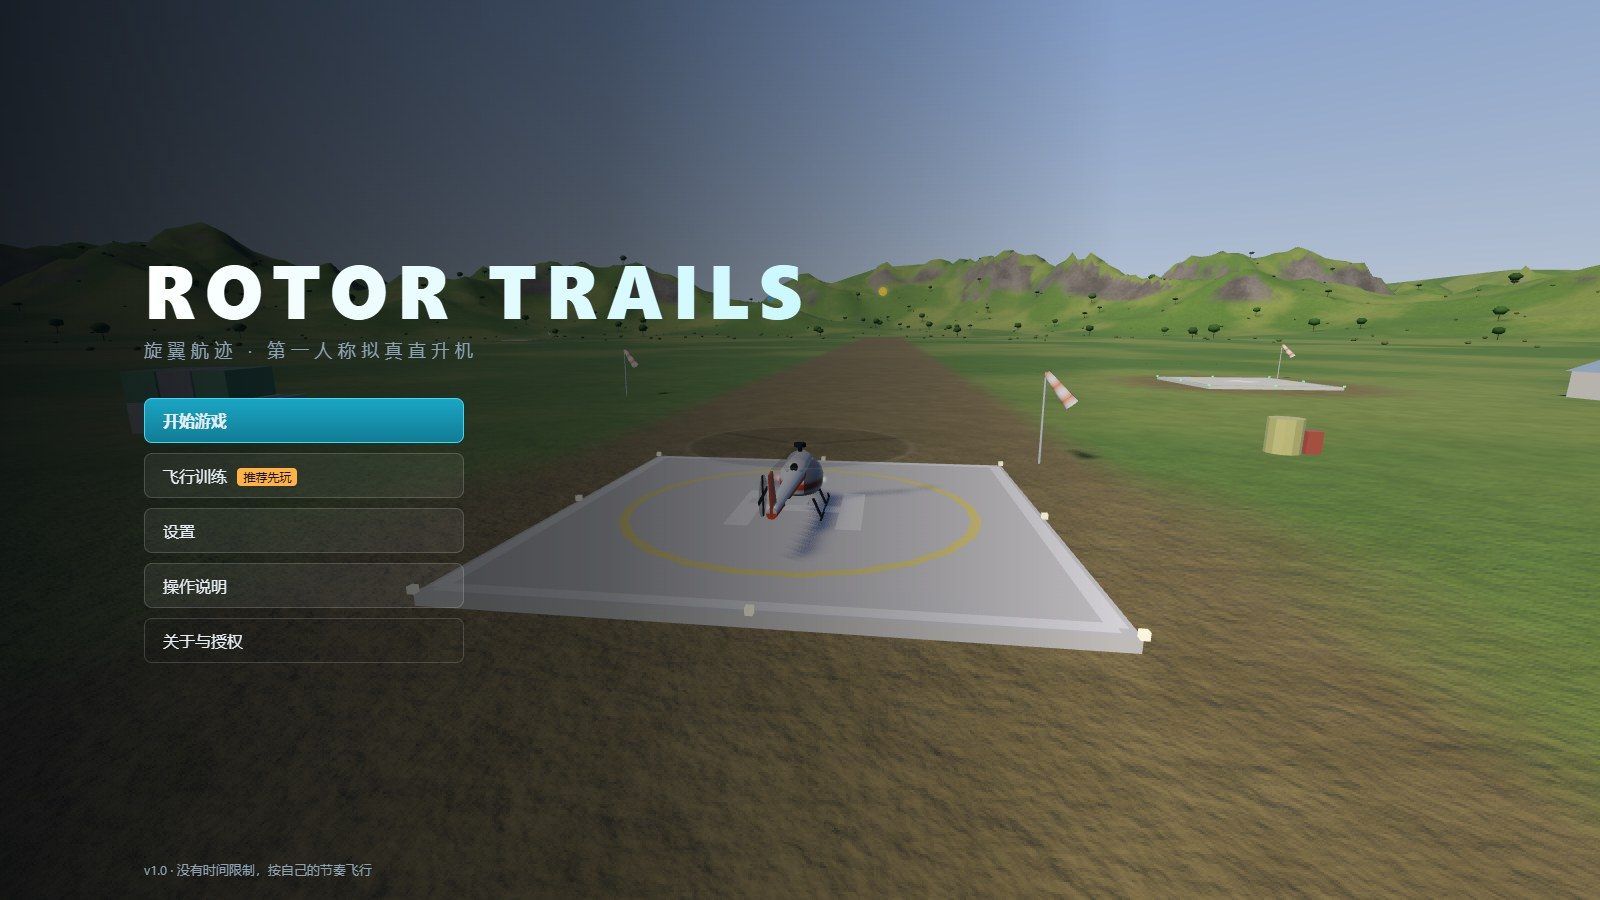
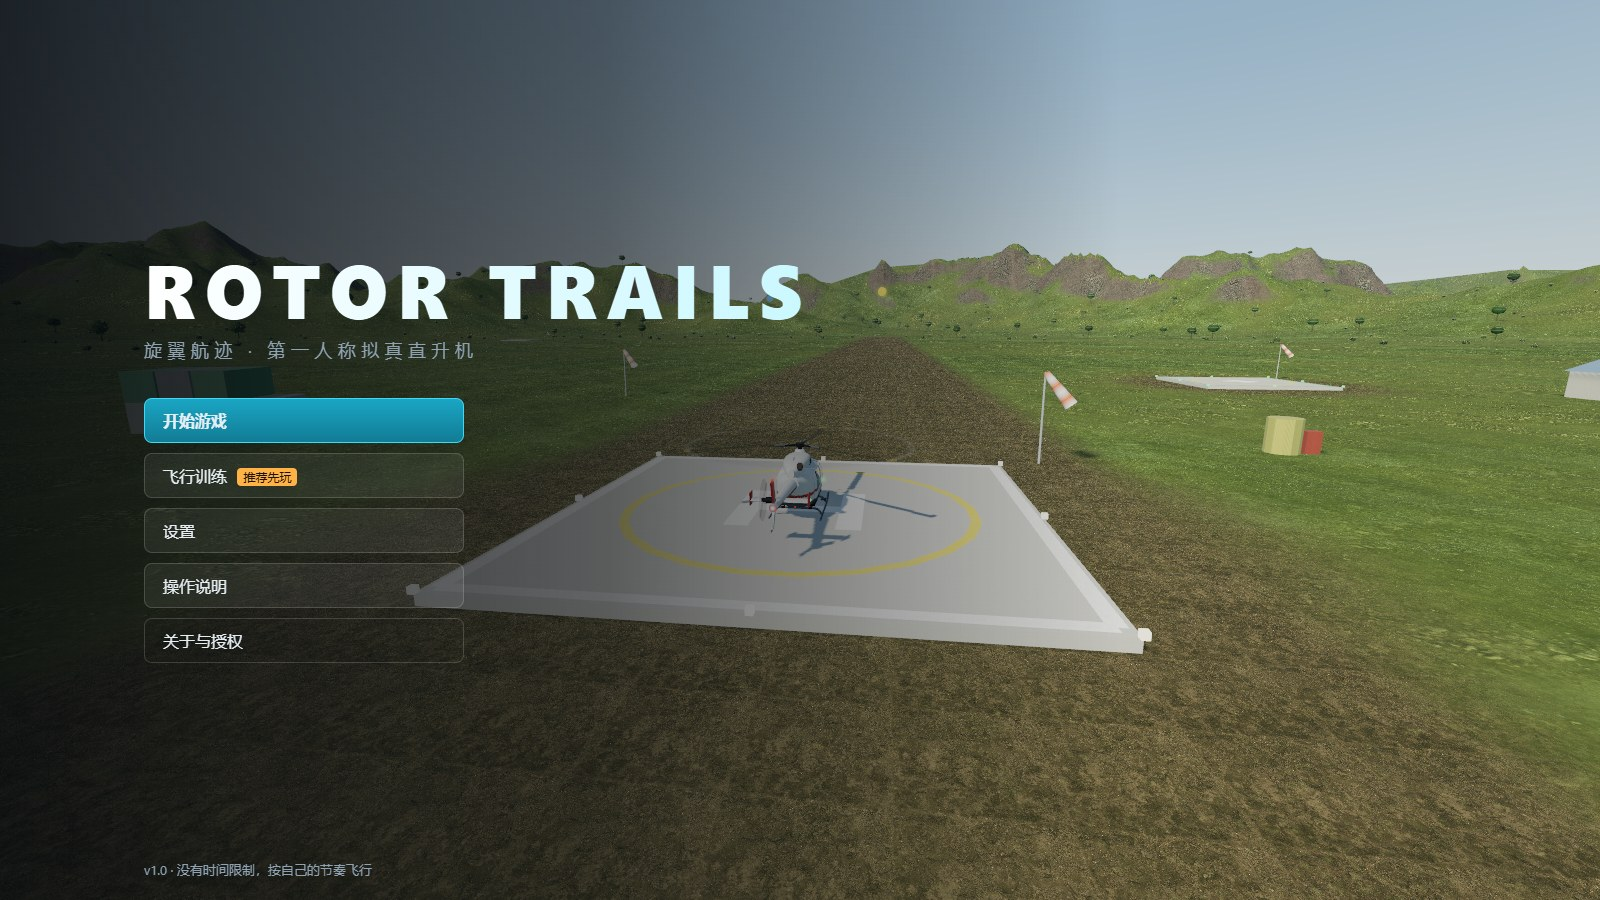
文档：画面升级的说明、素材许可、测试报告与新截图
- README：素材来源（Blender 建模 + Poly Haven CC0 材质）、写实画面特色、目录结构、重新生成素材的步骤
- THIRD_PARTY_LICENSES：列出用到的 28 种 Poly Haven 材质（CC0）与只作建模参照、不随游戏分发的照片
- 设计文档：照片材质地形、模型实例化、三级细节树木、天空 / 雾 / 分层阴影 / 水面 / 后期处理、四档画质
- 进度与测试报告：本轮 81 个测试、晴天 20/20 与恶劣天气 22/22 自动驾驶回归、帧率实测、加载体积
- 17 张文档截图用新画面重新生成；试玩页脚本把 models/、textures/ 一起列入附属文件

diff --git a/README.md b/README.md
@@ -3,7 +3,7 @@
 第一人称拟真直升机闯关网页游戏。驾驶一架轻型直升机，在五张风格迥异的地图里执行运输、空投、巡查与精确降落任务：日本海湾群岛、美国西南峡谷、亚马孙雨林、挪威峡湾、喜马拉雅雪域。
 
 - 纯前端静态网站：TypeScript + Vite + three.js（WebGL2）+ Rapier 物理（WebAssembly），无后端、无在线 AI、无付费接口
-- 全部地形、建筑、植被、纹理、仪表画面与音效均为程序化生成，没有外部素材
+- 驾驶舱、直升机外观、五张地图的建筑与 10 种树木都用本仓库里的 Blender 脚本建模（对照维基共享资源上的真实照片，照片只作参照、不随游戏分发）；地形与建筑使用 [Poly Haven](https://polyhaven.com) 的 CC0 照片材质；地形高度、天空、水面、仪表画面与音效为程序生成
 
 ![濑户湾群岛](docs/screenshots/04_japan.jpg)
 
@@ -25,6 +25,7 @@
 - **Buff**：动力增强（储存一次，Shift 使用）、免伤护盾（挡耐久损失但不挡碰撞）、维修补给
 - **检查点**：可从最近检查点或更早的安全检查点恢复，也可“安全恢复”（稳定悬停状态继续），不会卡死
 - **不计时的评分**：主线、可选任务、剩余耐久、碰撞次数、最终降落质量
+- **写实画面**：对照 H125 实机照片建模的驾驶舱（指针式仪表、发动机/地图/姿态屏实时显示）；物理天空与随高度变淡的雾（顺光方向带阳光色）；四级分层阴影；照片材质地形（陡坡三平面投影、积雪按坡面朝向堆积）；带波浪、岸边白沫和浑浊河水的水面；泛光与多重采样抗锯齿。画质分低 / 中 / 高 / 极高四档，首次启动按显卡自动选择（集成显卡默认低画质并提示）
 
 ## 快速开始
 
@@ -100,6 +101,17 @@ MAP=himalaya PATHS=0,1 npx vitest run --config vitest.tools.config.ts tools/auto
 
 每张正式地图都有 2 个可选任务、维修/备降点、多处检查点和地标。自动驾驶完成主线的仿真时间为 5–12 分钟；真人玩家的用时会更长，但**尚未经过真人试玩测量**（见 [测试报告](docs/test-report.md)）。
 
+## 美术素材（重新生成）
+
+模型与贴图已经生成好并提交在 `public/` 下，平时不需要重新生成。修改建模脚本后的重新生成步骤（需要 Blender 4.x / 5.x，以及装有 Pillow、NumPy、SciPy 的 Python 3）：
+
+1. `node tools/fetch_assets.mjs`：按 [tools/assets/sources.json](tools/assets/sources.json) 下载 Poly Haven 材质与参照照片到 `art/src/`（不进仓库）
+2. `python tools/prep_textures.py <材质id>:1024 …`、`python tools/prep_terrain.py`、`python tools/prep_detail.py`：缩放、转换贴图
+3. `python tools/blender/tex_variants.py`、`python tools/blender/leaf_atlas.py art/out/trees`、`python tools/blender/cockpit_textures.py art/out/cockpit_tex`：颜色变体、木瓦、叶片图集、仪表盘面
+4. `blender -b --factory-startup --python tools/blender/<脚本>.py -- public/models/<文件>.glb [--preview 预览目录]`：脚本有 `cockpit.py`（另需贴图目录与 `--bake`）、`heli_ext.py`、`trees.py`、`props_japan.py`、`props_fjord.py`、`props_himalaya.py`、`props_amazon.py`、`props_canyon.py`，用法写在各脚本开头
+
+模型文件缺失或加载失败时，游戏会退回程序生成的几何体，仍然可以玩。
+
 ## 部署到 GitHub Pages
 
 仓库里的 [.github/workflows/deploy.yml](.github/workflows/deploy.yml) 在每次推送到 `main` 时自动执行类型检查、测试和构建；构建产物使用相对路径（`base: './'`），可以放在任何子路径下（例如 `https://<用户名>.github.io/rotor-trails/`）。
@@ -128,7 +140,12 @@ src/
   ui/          HUD、菜单与样式
   audio/       程序化音效（旋翼、发动机、风、雨、告警）
 tests/         自动化测试（Vitest）
+public/
+  models/      Blender 导出的模型（驾驶舱、直升机外观、各地图建筑、树木）
+  textures/    地形照片材质、建筑细节贴图
 tools/         地图俯视图、航线净空、自动驾驶回归、截图等开发工具
+  blender/     Blender 建模脚本（驾驶舱、直升机、建筑、树木）与贴图生成脚本
+  assets/      美术素材来源清单（Poly Haven 材质、参照照片及其作者与许可）
 docs/          设计文档、进度、测试报告、截图
 ```
 
@@ -141,4 +158,4 @@ docs/          设计文档、进度、测试报告、截图
 
 ## 许可
 
-本项目代码尚未指定开源许可证（默认保留所有权利）。所用第三方库的许可见 [THIRD_PARTY_LICENSES.md](THIRD_PARTY_LICENSES.md)。
+本项目代码尚未指定开源许可证（默认保留所有权利）。所用第三方库、Poly Haven 材质（CC0）与参照照片的说明见 [THIRD_PARTY_LICENSES.md](THIRD_PARTY_LICENSES.md)。

diff --git a/docs/design.md b/docs/design.md
@@ -88,11 +88,15 @@
 ## 8. 世界生成与渲染
 
 - **地形**：每张地图用数学函数（噪声、山脊噪声、样条距离场）生成高度场，再用样条“刻”出河道、峡谷、峡湾、冰川谷，整平站点；同一份高度场同时用于 Rapier 碰撞（已用测试验证三角剖分一致）和渲染。地表遮罩（沙、泥土/道路、无树区、积雪）由生成过程绘制。
-- **地形着色**：坡度/高度/遮罩混合草地、岩石、积雪、沙滩，岩层条带（峡谷）、湿润、森林地面；细节噪声与凹凸使用三平面投影，峭壁上不会拉伸成竖条，远处凹凸逐渐减弱避免闪烁。
-- **建筑与道具**：程序化组合几何体，按材质与区块合批；碰撞体为盒、圆柱、球、胶囊。动态对象（风向袋、旗帜、经幡、信标灯、闪烁灯）由锚点生成。
-- **植被**：按密度、坡度、高度和遮罩散布，两级 LOD，实例化渲染，随风摆动；只为直升机附近约 85 m 内的树创建碰撞代理。
-- **其他**：分块地形 LOD 与裙边、视锥剔除、水面、天空与雾、雨线与云层、闪电、座舱模型与三块实时仪表（发动机/耐久、地图、主飞行显示）。
-- **画质档位**（低/中/高）只影响渲染（分辨率、阴影、树木距离、地形细节、雨密度），**不影响物理和碰撞**。
+- **地形着色**：坡度/高度/遮罩混合草地、岩石、积雪、沙滩，岩层条带（峡谷）、湿润、森林地面；中高画质使用 Poly Haven 照片材质（每张地图 8 层，打包成纹理数组）：平地用俯视投影（近处 + 旋转后的大尺度两次采样打破重复），陡坡逐渐改用三平面投影，照片颜色按亮度保留明暗、色相向地图的生物群系颜色靠拢；积雪按带细节的法线判断朝上程度（雪积在岩石平台与凹处）。低画质退回程序着色。
+- **建筑与道具**：道具函数用程序几何体生成碰撞体和后备外观；有 Blender 模型的建筑在 `beginModel / endModel` 之间登记模型实例（位置、朝向、按本栋尺寸缩放），渲染时用实例化网格画模型、跳过对应的程序几何体（`src/render/modelLib.ts`、`propsView.ts`）。模型由 `tools/blender/props_<地图>.py` 生成，参照照片建模、使用照片材质，子网格按材质合并。碰撞体为盒、圆柱、球、胶囊。动态对象（风向袋、旗帜、经幡、信标灯、闪烁灯）由锚点生成。
+- **植被**：按密度、坡度、高度和遮罩散布，实例化渲染；只为直升机附近约 85 m 内的树创建碰撞代理。10 个树种由 `tools/blender/trees.py` 生成三级细节（近景：弯曲渐细的枝干 + 法线朝外的叶簇卡片；中景：简化；远景：体块树冠），叶片贴图为程序绘制的图集。叶片用 alpha 测试（多重采样时 alpha-to-coverage），远处按 mip 级别补不透明度避免变稀；顶点着色器按真实风场让树冠摆动、叶片细碎抖动。
+- **光照与大气**：Preetham 物理天空（太阳盘、云层银边），环境光照由天空预滤波得到；雾按高度衰减，朝太阳方向带阳光的散射色，云中另有雾浓度。阳光阴影使用四级分层阴影（分界 4 / 40 / 320 / 2600 m），每个受光材质都通过同一个钩子接入阴影与雾（`sunShadows.ts`、`atmosphere.ts`）。
+- **水面**：8 组解析波浪（按像素覆盖范围淡出，避免远处摩尔纹）+ 噪声细节；岸边白沫来自水深纹理；亚马孙河为浑浊模式；粗糙度随距离增大。
+- **座舱与直升机**：驾驶舱对照 H125 实机照片建模（`tools/blender/cockpit.py`，烘焙环境光遮蔽），指针按仪表读数转动，发动机/地图/姿态屏为实时绘制的画布贴图；外观（机身、旋翼、尾梁、滑橇）由 `heli_ext.py` 生成，旋翼按转速变成半透明的桨盘。
+- **后期处理**：半浮点渲染目标 + 多重采样抗锯齿 → 泛光（中高画质）→ 色调映射输出；可选动态模糊。
+- **其他**：分块地形 LOD 与裙边、视锥剔除、雨线与云层、闪电。
+- **画质档位**（低 / 中 / 高 / 极高）只影响渲染（分辨率、阴影距离与精度、树木距离、地形细节与照片材质、抗锯齿、泛光、雨密度），**不影响物理和碰撞**。首次启动按显卡名称选择：集成显卡选低画质并在主菜单提示切换到独立显卡。
 - **舒适性**：视野、镜头抖动、头部晃动可调；动态模糊默认关闭；闪电可关闭。
 
 ## 9. 五张地图的关卡设计

diff --git a/docs/progress.md b/docs/progress.md
@@ -9,6 +9,7 @@
 | C 其余四张地图 | 美国西南峡谷、亚马孙雨林、挪威峡湾、尼泊尔喜马拉雅；高原性能调校 | 完成 |
 | D 打磨与验证 | 雾中可见的导航标记、三平面岩石纹理、经幡；80 个自动化测试；构建分块与加载画面；生产构建的浏览器流程验证与修复；文档截图 | 完成 |
 | E 文档与发布 | README、设计文档、测试报告、第三方许可；GitHub 仓库与 Pages 工作流 | 见下方“发布状态” |
+| F 画面升级 | 驾驶舱对照 H125 实机照片在 Blender 中精细建模（指针式仪表 + 三块实时屏幕）；爬升/下降改为独立按键（空格 / C，旧存档自动迁移）；照片材质地形、物理天空与高度雾、四级分层阴影、写实水面、后期处理与“极高”画质、按显卡自动选画质；直升机外观、五张地图的建筑、10 种树木（三级细节）改用 Blender 模型 | 完成 |
 
 ## 各地图状态
 
@@ -28,15 +29,17 @@
 - 没有真人试玩数据：真人用时、难度曲线、操作灵敏度和辅助强度都还是设计估计。
 - 指针锁定在普通浏览器窗口中的表现未验证（测试环境不授予指针锁定；退回的“按住左键拖动观察”已验证）。
 - 程序化音效未经人耳检查；Firefox / Safari 未测试；不支持触屏设备。
-- 首次加载约 2 MB（gzip），其中物理引擎（含 WebAssembly）约 1.7 MB；之后由浏览器缓存。
-- 直升机与建筑为程序化低多边形风格，不追求照片级真实。
+- 首次加载：程序约 2 MB（gzip，其中物理引擎含 WebAssembly 约 1.7 MB），另外进入地图时加载模型与贴图约 17–21 MB（驾驶舱 6.3 MB、直升机外观 0.5 MB、树木 3 MB、该地图建筑 3.3–5.4 MB、地形照片材质 3.8–6.1 MB；低画质不加载地形照片材质）；之后由浏览器缓存。
+- 建筑模型按每栋的宽 / 长 / 高缩放，屋顶坡度会随之略有变化；码头、帐篷、集装箱、机库、油罐等通用小道具仍是程序几何体（叠加了照片细节贴图）。
+- 集成显卡上帧率较低（树木和建筑模型更新前，在核显上测得低画质约 22 帧）。双显卡笔记本请在 Windows「设置 → 系统 → 屏幕 → 显示卡」里把浏览器设为“高性能”，游戏首次启动时也会按显卡自动选画质并在主菜单提示。
 - 远处峭壁在近距离仍有细小的颗粒纹理（岩石细节噪声），属于风格取舍。
 
 ## 可以继续改进的方向
 
 - 收集真人试玩反馈后调整：辅助强度、按键灵敏度、各地图任务难度与补给位置。
 - 手柄/摇杆支持；更多视角（外部自由视角、回放）。
-- 更细致的直升机外观与旋翼下洗效果（扬尘、水面涟漪）。
+- 旋翼下洗效果（扬尘、水面涟漪、草地倒伏）。
+- 通用小道具（码头、集装箱、机库等）也换成 Blender 模型；模型贴图的法线 / 粗糙度图可以降到 512 以减小下载量。
 - 低配置设备的进一步优化（更激进的远景简化）。
 
 ## 发布状态（2026-11-03）

diff --git a/THIRD_PARTY_LICENSES.md b/THIRD_PARTY_LICENSES.md
@@ -1,6 +1,25 @@
 # 第三方许可（Third-Party Licenses）
 
-Rotor Trails 的游戏代码、地形、建筑、植被、纹理、仪表画面与音效**全部由本项目程序化生成**，没有使用任何外部美术、模型、音频或字体素材。
+Rotor Trails 的游戏代码、地形高度、仪表画面与音效由本项目程序生成；驾驶舱、直升机外观、建筑与树木由本仓库 `tools/blender/` 里的脚本在 Blender 中建模生成。没有使用外部的模型、音频或字体素材。
+
+## 照片材质：Poly Haven（CC0）
+
+地形与建筑表面使用 [Poly Haven](https://polyhaven.com) 的照片材质（漫反射、法线、粗糙度），许可为 [CC0 1.0](https://creativecommons.org/publicdomain/zero/1.0/)（公共领域，可商用、可再分发，无需署名；这里仍列出以便追溯）。游戏里使用的是缩小、转换格式或调整颜色后的版本（`public/textures/`，以及嵌在 `public/models/*.glb` 里的贴图）。
+
+游戏里用到的 28 种：aerial_grass_rock、aerial_rocks_02、brown_mud_02、clay_plaster、cliff_side、coast_sand_01、concrete_wall_008、corrugated_iron、cracked_red_ground、distressed_painted_planks、dry_ground_01、forest_ground_04、forest_leaves_02、gravelly_sand、grey_roof_tiles、hinoki_planks、japanese_cedar_planks、mossy_rock、palm_bark、pine_bark、poly_wool_herringbone、rabdentse_ruins_wall、red_laterite_soil_stones、rock_face、rocky_terrain_02、snow_field_aerial、thatch_roof_angled、white_plaster_02（下载清单与脚本见 `tools/assets/sources.json`、`tools/fetch_assets.mjs`；清单里另有几种下载过但最终没有使用）。木板教堂的焦油木瓦贴图为程序生成。
+
+## 建模参照照片（不随游戏分发）
+
+以下照片只在建模时用来对照比例与细节，**不包含在仓库和网站中**：
+
+| 照片（维基共享资源） | 作者 | 许可 | 用途 |
+| --- | --- | --- | --- |
+| F-HGRU Airbus H125 helicopter cockpit (Ardèche, 2024) | Kakoula10 | CC BY-SA 4.0 | 驾驶舱仪表板布局 |
+| AS350 B3 Écureuil – SDIS 04 à Digne-les-Bains（07、08 两张） | X-Javier | CC BY-SA 4.0 | 座椅、风挡、舱门、顶窗结构 |
+
+另外在维基共享资源上浏览查看过（未下载）的建筑照片：博尔贡木板教堂（Borgund Stave Church）、丹波切寺（Tengboche Monastery）、马瑙斯港客运木船（Riverboat, Manaus）、鞆之浦民居与严岛神社大鸟居。模型是按照片里的结构与比例重新建模的，没有使用照片像素。
+
+## 程序库
 
 构建产物（`dist/`，即部署到网页上的文件）中包含以下第三方开源库的代码：
 

diff --git a/docs/test-report.md b/docs/test-report.md
@@ -5,6 +5,23 @@
 
 测试日期：2026-11-03 · 测试环境：Windows 11、RTX 5070 Ti Laptop GPU、Node.js 24.22.1、Chrome 156.0.8078.76（无头模式）与 Claude 桌面应用内置浏览器（Chromium）
 
+## 0. 本轮更新：画面升级（2026-11-03 下午）
+
+本轮改动：驾驶舱与直升机外观、五张地图的建筑、树木改用 Blender 模型；照片材质地形、天空与雾、分层阴影、水面、后期处理；爬升/下降改为空格 / C。物理与飞行模型没有改动（只有亚马孙科考船的碰撞体随模型改成两层甲板的形状）。
+
+| 项目 | 方式 | 结果 |
+| --- | --- | --- |
+| 类型检查 | `npm run typecheck` | 通过，0 错误 |
+| 自动化测试 | `npm test` | **81 / 81 通过**（新增：旧存档的下降键从 Ctrl/X 迁移到 C、默认键位不再包含 Ctrl） |
+| 生产构建 | `npm run build` | 成功；游戏代码 348 KB（gzip 127 KB）、three.js 736 KB（gzip 184 KB）、Rapier 4.3 MB（gzip 1.67 MB）；`public/` 下模型 29 MB、贴图 11 MB，按地图加载 |
+| 自动驾驶回归（晴天） | `bash tools/regress.sh clear`，5 张地图 × 4 种路线组合 | **20 / 20 完成，0 碰撞，耐久全部 100** |
+| 自动驾驶回归（恶劣天气） | `bash tools/regress.sh weather`，11 种天气 × 2 种路线组合 | **22 / 22 完成，0 碰撞，耐久全部 100** |
+| 画面检查 | 无头 Chrome 截图（`tools/steps/cockpit_check.json`、`world_check.json`、`trees_check.json`、`props_check.json`、`props_fjord_check.json`）与 Blender 预览渲染 | 驾驶舱、五张地图的地形 / 水面 / 树木 / 建筑都按预期显示；游戏本身 0 个控制台错误。17 张文档截图已用新画面重新生成 |
+| 帧率 | 无头 Chrome + RTX 5070 Ti Laptop，1920×1080，生产构建，悬停时 | 日本、峡湾：低 / 中 / 高 / 极高 都在 233–240 帧（无头模式可能有约 240 帧的上限）；亚马孙（树最多）：低 240、中 240、高 188、极高 130 |
+| 真人试玩 | — | **未进行** |
+
+以下第 1–5 节是上一轮（画面升级之前）的完整测试记录。
+
 ## 1. 汇总
 
 | 项目 | 方式 | 结果 |
